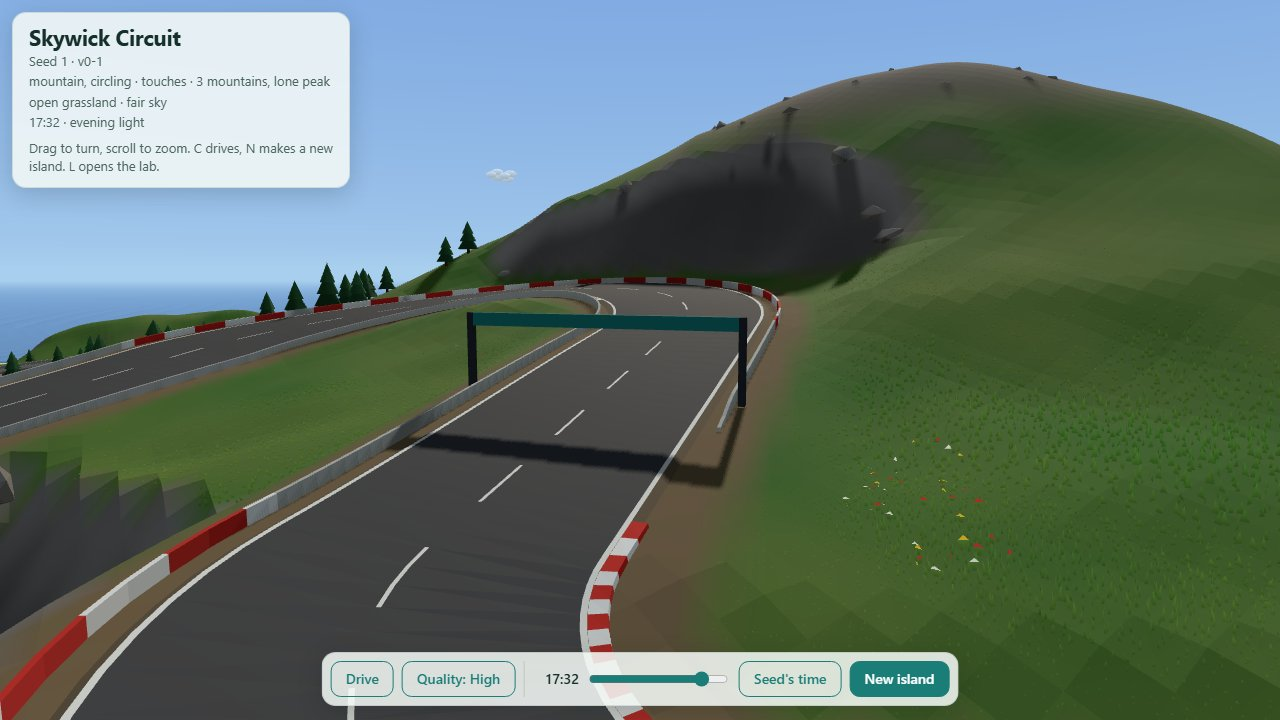
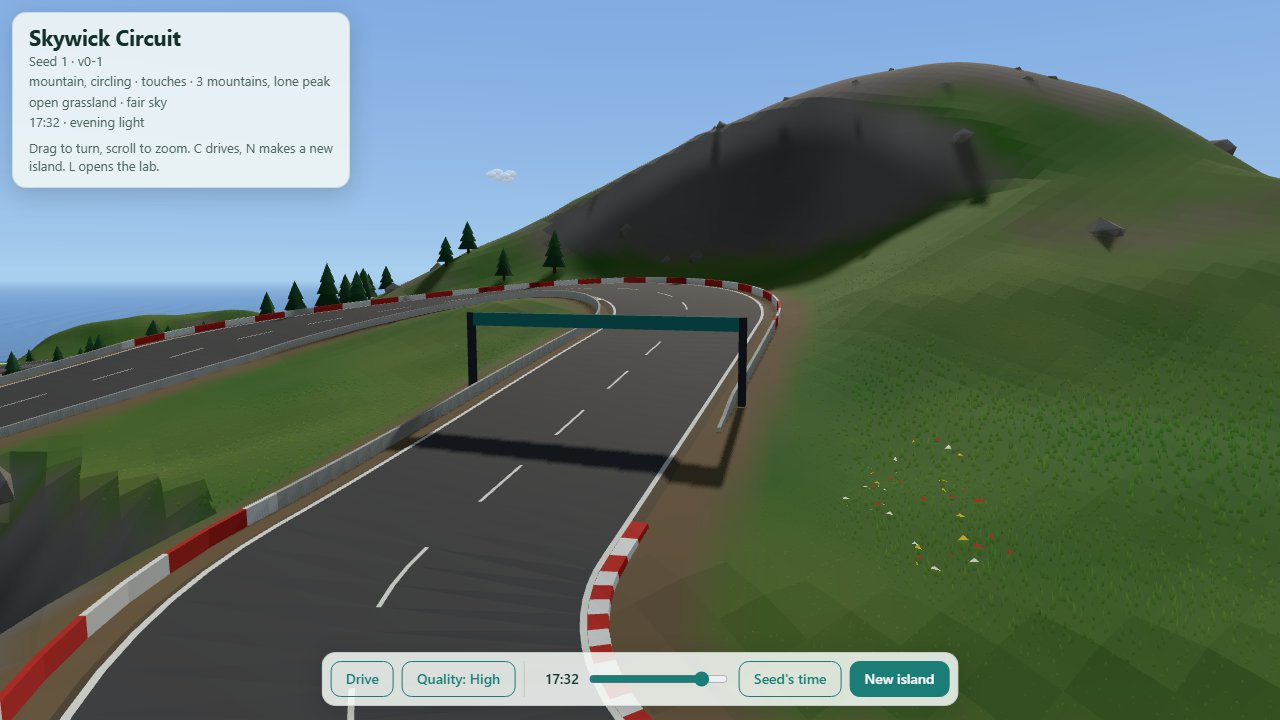
M6.3c: rock and snow with soft, uneven edges
The rock's and the snow's edges wander with a broad noise of their own
(world.cover.edge: 70 m a unit; the rock's slopes by up to 0.5, its
heights by up to 40 m, the snow line by up to 20 m), and rock blends in
from 50% to 100% steep (rockSlope, was 55 to 85%). The wander may always
draw grass up a slope but pushes rock only onto slopes within edge.reach
0.15 of where rock begins, so gentle ground stays grass. Tane chose the
second of three tries on pictures, and to leave the peak's ridge texture
as it is (no lumpiness showed; changing it would move mountain laps).
World only: no lap moves; the bot's races and pinned simulation
fingerprints are unchanged. The visual bar's mountain.jpg and
mountain-road.jpg taken again.

Over the 38 mountain seeds of 1 to 200: rock over half 17.24% of land
before, 15.99% after; half-rock blends 5.16% to 7.14%; snow unchanged;
no rock on gentle low ground.

Tests: 5 in cover.test.ts (the rock's slopes, its heights and the snow
line each wander from mostly one to mostly the other; no rock on gentle
low ground; the wander is broad); the snow test in mountains.test.ts
allows for the snow line's wander. 2,998 unit tests pass; type check
clean; 442 browser tests pass (136 skipped) in 39.1 minutes.

STATE.md: M6.3c done, M6.3d next.

diff --git a/src/gen/world/cover.test.ts b/src/gen/world/cover.test.ts
@@ -102,6 +102,56 @@ describe('buildCover', () => {
   });
 });
 
+describe('the edges of the rock and the snow (M6.3c)', () => {
+  const sample = coverSampler(3, config, 'peak');
+  /** What the sampler gives at points 15 m apart over a 600 m square, all at one height and slope. */
+  const over = (here: number, slope: number, pick: (c: ReturnType<typeof sample>) => number): number[] => {
+    const got: number[] = [];
+    for (let x = -300; x <= 300; x += 15) for (let z = -300; z <= 300; z += 15) got.push(pick(sample(x, z, here, slope)));
+    return got;
+  };
+  /** The share of values below a quarter and above three quarters of the scale. */
+  const ends = (values: number[]): [number, number] => [values.filter((v) => v < 64).length / values.length, values.filter((v) => v > 191).length / values.length];
+
+  it('wander across an even slope: in the middle of the rock band some places are mostly grass and some mostly rock', () => {
+    const [grassy, rocky] = ends(over(60, (config.world.cover.rockSlope[0] + config.world.cover.rockSlope[1]) / 2, (c) => c.rock));
+    expect(grassy).toBeGreaterThan(0.1);
+    expect(rocky).toBeGreaterThan(0.1);
+  });
+
+  it('never push rock onto gentle low ground', () => {
+    const { rockSlope, edge } = config.world.cover;
+    expect(Math.max(...over(60, rockSlope[0] - edge.reach - 0.01, (c) => c.rock))).toBe(0);
+  });
+
+  it('wander across high ground, so rock does not begin along a contour', () => {
+    const [grassy, rocky] = ends(over((config.world.cover.rockHeight[0] + config.world.cover.rockHeight[1]) / 2, 0.1, (c) => c.rock));
+    expect(grassy).toBeGreaterThan(0.1);
+    expect(rocky).toBeGreaterThan(0.1);
+  });
+
+  it('wander across the snow line', () => {
+    const [bare, snowy] = ends(over((config.world.cover.snowHeight[0] + config.world.cover.snowHeight[1]) / 2, 0.1, (c) => c.snow));
+    expect(bare).toBeGreaterThan(0.1);
+    expect(snowy).toBeGreaterThan(0.1);
+  });
+
+  it('wander broadly: points 3 m apart differ far less than points far apart', () => {
+    let near = 0;
+    let far = 0;
+    let count = 0;
+    for (let x = -300; x <= 300; x += 15) {
+      for (let z = -300; z <= 300; z += 60) {
+        const here = sample(x, z, 60, 0.75).rock;
+        near += Math.abs(here - sample(x + 3, z, 60, 0.75).rock);
+        far += Math.abs(here - sample(x + 150, z + 150, 60, 0.75).rock);
+        count++;
+      }
+    }
+    expect(near / count).toBeLessThan((far / count) / 4);
+  });
+});
+
 describe('coverSampler (M6.2b)', () => {
   it('gives at any point the cover buildCover gives a cell away from the road, from its height and slope', () => {
     // A hillside rising to the east, steep enough in places for rock and high enough for some snow.

diff --git a/src/gen/world/cover.ts b/src/gen/world/cover.ts
@@ -29,20 +29,29 @@ export function coverSampler(seed: number, cfg: GenConfig, landform: LandformKin
   const noise = createNoise(rng);
   const offsetX = rng.range(-500, 500);
   const offsetZ = rng.range(-500, 500);
+  // The broad wander of the rock's and the snow's edges (M6.3c), its own stream so the rest is unchanged.
+  const edgeRng = rng.fork('edge');
+  const edgeNoise = createNoise(edgeRng);
+  const edgeX = edgeRng.range(-500, 500);
+  const edgeZ = edgeRng.range(-500, 500);
+  const { edge } = rules;
 
   return (x, z, here, slope, grows = 1) => {
     const variation = clamp01(0.5 + 0.6 * fbm(noise, x / rules.variationScale + offsetX, z / rules.variationScale + offsetZ, 3));
     // The edge of the sand wanders a little with the variation, so it is not a contour line.
+    const wander = fbm(edgeNoise, x / edge.scale + edgeX, z / edge.scale + edgeZ, 3);
     const sand = 1 - smoothstep(rules.sandTop[0], rules.sandTop[1], here + (variation - 0.5) * 1.2);
     const rock =
       here <= 0
         ? 0
         : Math.max(
-            alpine ? smoothstep(rules.rockHeight[0], rules.rockHeight[1], here + variation * 6) : 0,
-            smoothstep(rules.rockSlope[0], rules.rockSlope[1], slope),
+            alpine ? smoothstep(rules.rockHeight[0], rules.rockHeight[1], here + variation * 6 + wander * edge.height) : 0,
+            // The wander may always draw grass up a slope, but pushes rock down only onto ground nearly steep enough
+            // for it, so gentle ground stays grass.
+            smoothstep(rules.rockSlope[0], rules.rockSlope[1], slope + wander * edge.slope * (wander > 0 ? smoothstep(rules.rockSlope[0] - edge.reach, rules.rockSlope[0], slope) : 1)),
           );
     // The snow line wanders a little with the variation, like the edge of the sand.
-    const snow = alpine ? smoothstep(rules.snowHeight[0], rules.snowHeight[1], here + (variation - 0.5) * 6) : 0;
+    const snow = alpine ? smoothstep(rules.snowHeight[0], rules.snowHeight[1], here + (variation - 0.5) * 6 + wander * edge.snow) : 0;
     const grass = here > 0 && grows > 0 ? (1 - sand) * (1 - rock) * (1 - snow) * grows : 0;
     return {
       grass: Math.round(grass * 255),

diff --git a/src/config.ts b/src/config.ts
@@ -884,6 +884,14 @@ export interface CoverConfig {
   roadsideFade: number;
   /** Size of the patches of lusher and drier ground: metres per unit of noise. */
   variationScale: number;
+  /**
+   * M6.3c: the edges of the rock and the snow wander up and down the hill with a broad noise of this size
+   * (metres per unit), so rock reaches down in tongues and grass climbs between them, not along a contour: the rock's
+   * slopes shift by up to `slope`, its heights by up to `height` metres and the snow line by up to `snow` metres.
+   * The wander may always draw grass up a slope, but pushes rock only onto slopes at most `reach` gentler than
+   * `rockSlope`'s start, so gentle ground stays grass.
+   */
+  edge: { scale: number; slope: number; height: number; snow: number; reach: number };
 }
 
 /**
@@ -2352,10 +2360,11 @@ export const config: GameConfig = {
     cover: {
       sandTop: [1.0, 2.6],
       rockHeight: [130, 160],
-      rockSlope: [0.55, 0.85],
+      rockSlope: [0.5, 1.0],
       snowHeight: [180, 200],
       roadsideFade: 3,
       variationScale: 55,
+      edge: { scale: 70, slope: 0.5, height: 40, snow: 20, reach: 0.15 },
     },
     sky: { hours: [7, 19.5] },
     decor: {

diff --git a/src/gen/world/mountains.test.ts b/src/gen/world/mountains.test.ts
@@ -292,7 +292,8 @@ describe('snow', () => {
       const [from, to] = built.cfg.world.cover.snowHeight;
       for (let c = 0; c < built.island.natural.height.length; c++) {
         const height = built.island.natural.height[c]!;
-        if (height < from - 10) expect(cover.snow[c], `seed ${built.seed}`).toBe(0);
+        // The snow line wanders by up to `cover.edge.snow` metres (M6.3c).
+        if (height < from - 10 - built.cfg.world.cover.edge.snow) expect(cover.snow[c], `seed ${built.seed}`).toBe(0);
         if (height > to + 10 && cover.snow[c]! > 200) snowy++;
       }
     }

diff --git a/docs/STATE.md b/docs/STATE.md
@@ -8,11 +8,11 @@ The step-by-step record of Milestones 1 and 2 (plans, measurements, check-ins an
 
 - **Current milestone:** **Milestone 6, Polish** ([issue #6](https://github.com/TechnologicTEC/Random-Racing/issues/6)), planned and approved by Tane on 2026-11-25 (below). Milestones 1 to 5 are merged and signed off (PR #7, #9, #10, #11, #12; Milestone 5 signed off by Tane 2026-11-25)
 - **Branch:** `milestone-6-polish`, made from `main` at 009260e. `main` is protected by a GitHub ruleset (no force pushes, no deletion, pull request required); one branch and pull request per milestone, merged after Tane signs off
-- **Last finished part:** M6.3b, cuttings lie back: a cutting's own longest blend of 45 m (Tane), held inside tight corners (2026-11-28)
+- **Last finished part:** M6.3c, rock and snow with soft, uneven edges (Tane chose the look; the peak left as it is) (2026-11-28)
 - **Check-in 1 with Tane (2026-11-28):** after M6.2, the bridges and the tunnels: "it looks good, no real changes needed"
 - **M6.3 picked and split (2026-11-28):** Tane picked the saw-tooth tops, the glare from above, the time of day, the round massif, the rock bands and the lumpy peak, the deep cuttings and the flower dabs; split into M6.3a to M6.3g, generator ones first (`docs/plan/M6-polish.md`)
 - **M6.3a dropped (Tane, 2026-11-28):** the lobed foot was tried and barely showed (below)
-- **Next:** **M6.3c**, mountain rock with soft, uneven edges and a less lumpy peak (generator): pictures before and after, shown to Tane before the commit
+- **Next:** **M6.3d**, the saw-tooth tops of sea cliffs and cut banks (drawing): pictures before and after, shown to Tane before the commit
 - **Hand-over, 2026-11-16.** Fable 5.2 built Milestones 1 and 2 and Milestone 3 up to 4c, then planned the rest: `docs/PLAN.md` (every part to release, in order, with its rules, starting values and "done when" tests) and `docs/VISUAL_BAR.md`. Opus 5.5 finished the plan's later sections the same day and builds from here
 
 ## Milestone 6: polish (2026-11-25)
@@ -44,7 +44,7 @@ Planned in plan mode and approved by Tane on 2026-11-25 (plan file: `C:\Users\ta
 | | **Check-in 1 with Tane**: drive over bridges and through tunnels | **Done** 2026-11-28: looks good, no changes |
 | M6.3a | The massif's foot uneven, not a round cone (generator; tracks move on mountain seeds) | **Dropped** (Tane, below) |
 | M6.3b | Wider blends beside deep cuttings on steep ground (generator, world only) | **Done** (below): 45 m (Tane) |
-| M6.3c | Mountain rock with soft, uneven edges; a less lumpy peak (generator) | To do |
+| M6.3c | Mountain rock with soft, uneven edges; a less lumpy peak (generator) | **Done** (below): the peak left as it is (Tane) |
 | M6.3d | The saw-tooth tops of sea cliffs and cut banks (drawing; a generator fallback if Tane asks) | To do |
 | M6.3e | The sun's glare on the sea from above (drawing) | To do |
 | M6.3f | The time of day: clouds at a low sun, dawn and dusk light, the evening sky, the light's names (drawing) | To do |
@@ -62,6 +62,10 @@ Planned in plan mode and approved by Tane on 2026-11-25 (plan file: `C:\Users\ta
 **Tane after M6.1b (2026-11-25):** "This is looking good. But I wonder if the bridge could look a bit different to the other parts of the track. As although it has the supports and elevated track, on top it looks the same and a player wouldn't really notice the difference. Instead could it maybe look like a wooden bridge or a different colour to the track. I also think we should look into using bridges to cross bits of water. For example we can have the track spanning across a ravine or a river and the bridge can connect the track on either side." Recorded with an outline and the questions in `docs/plan/M6-polish.md` ("Tane after M6.1b"); planned properly in plan mode in a fresh session. M6.1b stays as it is meanwhile: the bridges' shape, ground, railings, pillars and colliders are the base both changes build on.
 
 **M6.3, Tane's picks (2026-11-28).** Offered the 13 look items of `docs/PLAN.md`'s table "Where each known issue is dealt with" and this file's known issues, with what each fix would involve, Tane picked 1, 2, 3, 4, 6, 7 and 11: the saw-tooth tops of sea cliffs and cut banks, the sun's glare from above, the time of day (clouds at dawn and dusk, those hours dark, 18:30's blue "evening light", 10:00's "midday light"), the round cone under a massif, mountain rock in hard-edged bands and the lumpy peak, the steep cuttings beside mountain roads, and the large flower dabs near the chase camera. Left as they are: the coast's curved rock bands, the 64-point mountain check (it would remove the gorges Tane kept), the small generator and grass items (sandy flat seeds, the mown strip's width, nothing cleared round trees, the wind's direction), more trees from above, the title card's place, and new places for three visual bar pictures. The parts are M6.3a to M6.3g in `docs/plan/M6-polish.md`, generator ones first; each shows Tane pictures before and after before its commit.
+
+**M6.3c, done 2026-11-28.** **Rock and snow with soft, uneven edges** (`src/gen/world/cover.ts`, world only: no lap moves). Rock was where the ground is high (`world.cover.rockHeight` 130 to 160 m, its edge wandering 6 m with the variation) or steep (`rockSlope` 55 to 85%), and snow above `snowHeight` 180 to 200 m, so on the pictures a hill turned from grass to rock along a crisp line and seed 3's snow cap was a smooth contour. Now a broad noise of its own (`fbm` over 3 octaves, 70 m a unit, its own fork `edge` of the cover's stream so the variation is unchanged) moves the edges: the rock's slopes by up to `world.cover.edge.slope` 0.5, its heights by up to `height` 40 m, the snow line by up to `snow` 20 m; and the rock blends in from 50% to 100% steep (`rockSlope`, was 55 to 85%). **Gentle ground stays grass:** the wander may always draw grass up a slope, but it pushes rock only onto slopes no more than `edge.reach` 0.15 gentler than where rock begins (found by the hill-country test, which saw rock of 63 of 255 on ground under 30% steep, seed 5's test island, and by the snow test, whose 10 m margin under the snow line now adds `edge.snow`). **Tane chose** the second of three tries on pictures (a first, gentler try with 90 m, 0.3, 30 m and 15 m and the old `rockSlope` changed little but seed 3's snow line; a stronger one was offered), **and to leave the peak as it is**: no lumpiness showed on any peak in the pictures, and lowering `rockDepth` would shape the massif's top in the relief and move mountain laps. **What shows:** on seed 3 the snow line has tongues and grass climbs the mountain's foot in patches; seed 12's hill is grass and rock in patches rather than one grey slab; seed 1's lone peak changes least, since its sides are much steeper than its foot, so rock still begins along a fairly crisp line there; from above the islands are a little greener, and moderate slopes (some sea cliffs and cut banks) show grass among the rock. **Measured over the 38 mountain seeds of 1 to 200** (land cells): rock over half 17.24% before, 15.99% after; between a quarter and three quarters rock (a blend) 5.16% before, 7.14% after; snow over half 0.73% and 0.74%; rock over a quarter on low ground under 30% steep none before or after. The car's grip off the road reads the cover (`sim/car/surface.ts`), so a car off the road may meet other ground where the edges moved; the bot's races and every simulation fingerprint the tests pin are unchanged. The visual bar's `mountain.jpg` and `mountain-road.jpg` were taken again. **Pictures** (the session's scratchpad, `pics/m63c/`: `final.png`, seeds 1, 3 and 12 at `look=summit` and seed 3 circling, before and after; `try2-pairs.png` and `try2-above.png` as shown to Tane; `try1-pairs.png` the gentler try). Tests: 5 in `cover.test.ts` (in the middle of the rock's slopes, of its heights and of the snow line, over a 600 m square, some places under a quarter and some over three quarters; never rock on gentle low ground; points 3 m apart differ on average under a quarter as much as points 150 m apart). Seen failing first: the three middles (none under a quarter) without the code; the gentle ground's was written after the hill-country test found it; the broad wander's passes either way (its first bound, 40 of 255 at most between points 3 m apart, was too tight for the look Tane chose: up to 78). 2,998 unit tests pass; type check clean; 442 browser tests pass (136 skipped, as usual) in 39.1 minutes, with no failure.
+
+**Claude's calls in M6.3c, for Tane to judge:** one broad noise moves all three edges together (rock reaches down where the snow does); the wander pushes rock only onto ground nearly steep enough for it, so hill country and gentle meadows stay green.
 
 **M6.3b, done 2026-11-28.** **Cuttings lie back** (`src/gen/world/fit.ts`; world only: the fit runs after the track is chosen, so no lap, ghost or bot race moves). Beyond the verge the ground blends back to the natural ground over `abs(difference) / road.blendSlope` (0.4), held to `blendMin` 10 m and, until now, `blendMax` 25 m both ways, so a cut of 13 m into a 60% hillside rose at up to 160 to 200% beside the road. **A cutting now has its own longest blend, `road.blendCutMax` 45 m** (Tane chose 45 on pictures of 25 and 45; the brief's line on the fit now says so); an embankment keeps 25 m. **Inside a tight corner** the wider blend stops at `CORNER_SHARE` 0.8 of the corner's radius from the centre line (never under the old 25 m), as a tunnel's lid does: towards a corner's middle the nearest point of the road jumps from one part of the corner to another at another height, and the first try, unheld, left a 6 m step 43 m inside a 45 m corner on fresh seed 6322 (its report's steepest bank 2.24, over the fresh-seeds test's 2.2). The corner is read from `smoothBends`, the sharpest bend towards each side within 45 m either way averaged over the same stretch, since an arc meets its straights with a jump in curvature (held by the raw curvature, seed 6322's step grew to 4.11). **`fitReach`** (the road's half-width, a verge and the longer blend) is shared by the fit, the island's inland ground (which beyond it, out at sea, is never worked out: left at 25 m it made a false 'steepest bank' at the coast on seeds 1 and 3) and the report; the tunnels' lids reach as far. **Measured over the 38 mountain seeds of 1 to 200** (every land cell cut 1 to 30 m below its natural height, its slope over its neighbours): steeper than 150% 1,379 of 151,180 cells (0.91%) before, 772 of 163,130 (0.47%) after; steeper than 100% 3.46% before, 2.45% after; the report's steepest bank at most 4.08 before, 3.89 after (seed 47; median 1.26 and 1.25); a cutting's deepest point is 2 to 4 m deeper, since the wider blend cuts further into the hill. On seeds 1, 3, 11, 13 and 14, 1.38% before and 0.39% after. **The trenches of seeds 3 and 53 are not cuttings** (the known issue said they were, from C6): inside seed 3's hairpin fold the hills stand at 84 m and the island at 31 m, about 50 m under both legs, because the fold opens to the sea and the coast carves the high ground down ("the coast cuts high ground into curved rock bands", left at M6.3); its ravine crossing (M6.1d) passes 188 m away. Seed 53's is a natural valley beside the road. The fit leaves both as they are; on the first pictures seed 3's was wrongly put down to its ravine. **Pictures** (the session's scratchpad, `pics/m63b/`: `final-cuts.png` seeds 1, 13 and 11 at `look=cut`, `final-banks.png` seeds 1 and 3 at `look=bank` and seed 3 circling, before and after; the camera finds the steepest bank or deepest cut, so some after pictures show another stretch of road); seed 12's cutting changes little, its jagged hillside the grid's saw-tooth (M6.3d). Tests: 4 in `fit.test.ts` (a 25 m cut reaching past 25 m to 45 m and no steeper than 100%, a 25 m embankment still 25 m; held to 0.8 of a 60 m circle's radius inside it, its whole width outside; `smoothBends` on a stadium, reaching the arc's bend with no jump; `fitReach`) and the new `cutBanks.test.ts` (seeds 1, 3, 11, 13 and 14: under 0.8% of cut-bank cells steeper than 150%). Seen failing first: the deep cutting's, `fitReach`'s and the seeds test (1.38%) without the code, and the corner's on the unheld blend (37.4 m where 40 was asked); `smoothBends`' was written after it. No pinned fingerprint moved. 2,993 unit tests pass; type check clean; 442 browser tests pass (136 skipped, as usual) in 38.9 minutes, with no failure.
 
@@ -331,6 +335,7 @@ The 170 decisions of Milestones 1 and 2 (2026-11-11 to 2026-11-15) are in `docs/
 
 | Date | Decision | Why |
 | --- | --- | --- |
+| 2026-11-28 | **Rock and snow edges wander** (`world.cover.edge`, Tane's pick of three tries on pictures); **the peak's ridge texture left as it is** (Tane) | The rock no longer begins along a contour; no lumpiness showed on the peaks, and changing it would move mountain laps |
 | 2026-11-28 | **A cutting blends back over up to 45 m** (`road.blendCutMax`; Tane, on pictures), past the brief's 10 to 25 m; embankments keep 25 m; inside a corner held to 0.8 of its radius | Banks cut into steep mountainsides lie back (cells steeper than 150% halved over the mountain seeds of 1 to 200); the brief's fit line now says so |
 | 2026-11-28 | **M6.3a dropped (Tane):** the massif's cone stays round | A lobed foot barely showed: the coast's ring of cliffs is what reads as round |
 | 2026-11-27 | **The tunnels' look (Tane, on pictures):** yes to concrete portals, pale walls, a dark ceiling and the hill's shape given back over the road; **grass and trees on a tunnel's lid**, which read as a bare patch from above (M6.2b-3) | Tane chose grass and trees over grass only or a bare lid |
@@ -465,7 +470,7 @@ The design notes for Milestones 4, 5 and 6, and their steps, are in `docs/PLAN.m
 - **A ridged range can stand over the road, which then runs through it in a gorge** (seed 39898; 42 from the 20 m road until M4.1; 28496 before; about 1 seed in 40). Mountain placement checks a foot at 32 points round its outline. Tane chose to keep the gorges (step 17). The same coarse check lets a range's foot come 50 m from the road, or a mountain's land only just meet the road's, on test islands of seed 5 (6h-3, listed in `mountains.test.ts`). For M6.3: checking feet at 64 points removes the gorges too.
 - **The circling camera frames only part of the lap on the biggest islands** (seed 10 from above).
 - Enclosed water is possible where a fold in the track is closed off by land at its mouth. None seen yet; it would be a lagoon.
-- In 3D the sea cliffs read well as rock faces. The peak is craggy and a bit lumpy from the ridge texture on its sides; worth a look once lighting and shadows are in.
+- In 3D the sea cliffs read well as rock faces. The peak was noted as craggy and a bit lumpy from the ridge texture on its sides; at M6.3c no lumpiness showed on any peak's pictures, and Tane left it (2026-11-28). On a lone peak whose sides are much steeper than its foot (seed 1), rock still begins along a fairly crisp line at the foot.
 - **The sun's glare on the sea, seen from the circling camera, is a wide pale patch with wave stripes in it** (seed 7 at 10:00). Softer than it was; `render.water.glint*` are the settings.
 - **The water shader does more work per pixel than the demo's** (eight wave trains, each with a noise lookup). Measured in step 15: the sea surface costs about 0.5 ms a frame at 1080p on the Arc graphics; Low keeps the four longest of the eight trains.
 - **From far above, open and wooded islands still look fairly bare**: a tree is 6 to 10 m tall on an island 1 to 2 km across, so woods read as patches of dark dots. `world.decor.trees.level` sets how much is wooded and `spacing` how close the trees stand. For Tane to judge.
@@ -608,3 +613,4 @@ Entries up to the end of Milestone 2 are in `docs/archive/STATE-milestone-1-2.md
 - **2026-11-28 (Milestone 6, Opus 5.5):** M6.3 started: Tane picked 7 of the 13 look items offered (the saw-tooth tops, the glare from above, the time of day, the round massif, the rock bands and the lumpy peak, the deep cuttings, the flower dabs); split into M6.3a to M6.3g, generator ones first, in `docs/PLAN.md`, `docs/plan/M6-polish.md` and here. Next: M6.3a.
 - **2026-11-28 (Milestone 6, Opus 5.5):** M6.3a tried and dropped (Tane): a lobed foot for the massif's cone barely showed, since the coast's cliffs are what read as round, and it moved every mountain seed's lap. Next: M6.3b.
 - **2026-11-28 (Milestone 6, Opus 5.5):** M6.3b done: a cutting blends back over up to 45 m (Tane), held inside tight corners by a smoothed curvature; cut-bank cells steeper than 150% halved over the mountain seeds of 1 to 200; seeds 3 and 53's trenches found to be the coast's and a natural valley. Next: M6.3c.
+- **2026-11-28 (Milestone 6, Opus 5.5):** M6.3c done: the rock's and the snow's edges wander with a broad noise, the rock blending in from 50% to 100% steep, gentle ground kept grass (Tane chose the look, and to leave the peak). Next: M6.3d.

diff --git a/docs/plan/M6-polish.md b/docs/plan/M6-polish.md
@@ -41,7 +41,7 @@ Each part ends with passing tests and one commit (`docs/PLAN.md`, "The routine f
 | | **M6.3, Tane's picks (2026-11-28).** Offered the 13 look items of `docs/PLAN.md`'s table "Where each known issue is dealt with" and `docs/STATE.md`, Tane picked: the saw-tooth tops (1), the glare from above (2), the time of day (3), the round massif (4), the rock bands and the lumpy peak (6), the deep cuttings (7) and the flower dabs (11). Left: the coast's curved rock bands (5), the 64-point mountain check, which would remove the gorges (8), the small generator and grass items (9), more trees from above (10), the title card's place (12), and new places for three visual bar pictures (13). Generator parts first, since they move every mountain world and must land before `v1`. **Each part: pictures before and after, shown to Tane before its commit** |
 | **M6.3a** | **The massif's foot uneven** (generator). A mountain seed's massif stands on a cone that is round, up to 2.3 km across (`createRelief`, `world.relief.massif`), so seeds 3, 13 and 14 read as one round dome. Its foot gets a wavy outline from the seed (as `wavyOutline` gives the other mountains, its lobes in `world.relief.massif`), the cone's height at the shoulder kept, and no steeper than `massif.slope` (15%) anywhere, the sideways tilt included (a test over the cone). The cone is in the relief every candidate is laid over, so tracks move on mountain seeds: measured over seeds 1 to 200 (candidates rejected, winners changed, lap height ranges by route still inside their tests); pinned fingerprints and per-seed tests updated where winners change, as at M4.1. Pictures before and after: seeds 3, 13 and 14 circling and from the contact sheet, seed 1's `look=summit` and `look=climb`. **Dropped 2026-11-28 (Tane):** a lobed foot (the peaks' `wavyOutline`, never steeper than 15%) was tried on seeds 1, 3, 13 and 14 and barely showed: the cone's foot lies mostly under the sea, and what reads as round is the coast cutting the high ground into a ring of cliffs (the coast's curved rock bands, left), while every mountain seed's lap and other mountains moved |
 | **M6.3b** | **Wider blends beside deep cuttings** (generator, world only: the fit runs after the track is chosen). The blend from the road's edge into the hillside is `abs(difference) / road.blendSlope` (0.4), held to `blendMin` 10 m and `blendMax` 25 m (`gen/world/fit.ts`), so a cut of 13 m on a steep hillside is a trench. On steep ground the blend may reach further (its own config value), so the bank beside the road lies back. Measured over the mountain seeds of 1 to 200: the steepest bank beside the road (210% today) and the deepest cut at a road edge (13 m today); the barrier, wall and tunnel tests still pass. Pictures before and after: seeds 3 and 53 (the trenches), 1 `look=cut` and `look=bank`. **Done 2026-11-28:** `road.blendCutMax` 45 m (Tane, on pictures; past the brief's 10 to 25 m, the embankments' `blendMax` 25 m kept), held inside a corner to 0.8 of its radius from the centre line, the corner taken from a curvature smoothed along the lap (`smoothBends`), since towards a corner's middle the nearest point of the road jumps to another part of it at another height; `fitReach` shared by the fit, the island and the report. Over the 38 mountain seeds of 1 to 200, cut-bank cells steeper than 150% fell from 0.91% to 0.47% and steeper than 100% from 3.46% to 2.45%; the report's steepest bank at most 3.89 (was 4.08). Seeds 3 and 53's trenches turned out not to be cuttings: the coast carving high ground inside a fold (seed 3) and a natural valley (seed 53), both left (`docs/STATE.md`) |
-| **M6.3c** | **Mountain rock with soft, uneven edges; a less lumpy peak** (generator). Rock is where the ground is high (`world.cover.rockHeight` 130 to 160 m, its edge wandering 6 m with the variation) or steep (`rockSlope` 55 to 85%), so it lies in hard-edged bands (`mountain.jpg`). The edge is broken up by a broader noise, so rock reaches down gullies and grass up spurs, and blends over a wider band (`gen/world/cover.ts`); the ridge texture on a peak's sides (`rockDepth`) is lowered if the pictures ask for it (it shapes the massif's top, in the relief, so it would move tracks as M6.3a does). Pictures before and after: seed 1 `look=summit`, seeds 3, 12 and 13 circling |
+| **M6.3c** | **Mountain rock with soft, uneven edges; a less lumpy peak** (generator). Rock is where the ground is high (`world.cover.rockHeight` 130 to 160 m, its edge wandering 6 m with the variation) or steep (`rockSlope` 55 to 85%), so it lies in hard-edged bands (`mountain.jpg`). The edge is broken up by a broader noise, so rock reaches down gullies and grass up spurs, and blends over a wider band (`gen/world/cover.ts`); the ridge texture on a peak's sides (`rockDepth`) is lowered if the pictures ask for it (it shapes the massif's top, in the relief, so it would move tracks as M6.3a does). Pictures before and after: seed 1 `look=summit`, seeds 3, 12 and 13 circling. **Done 2026-11-28:** the rock's and the snow's edges wander with a broad noise (`world.cover.edge`: 70 m, the rock's slopes by up to 0.5, its heights by up to 40 m, the snow line by up to 20 m), the rock blending in from 50% to 100% steep (`rockSlope`, was 55 to 85%); the wander pushes rock only onto slopes within `edge.reach` 0.15 of where rock begins, so gentle ground stays grass. Tane chose the second, stronger try of three on pictures, and to leave the peak as it is (no lumpiness showed on any peak's pictures, and `rockDepth` would move mountain laps) (`docs/STATE.md`) |
 | **M6.3d** | **The saw-tooth tops of sea cliffs and cut banks** (drawing first). Every 3 m square of the ground is split into two triangles along the same diagonal (`render/terrainChunks.ts`), so a sharp edge crossing the grid at a slant is drawn in steps. On squares steeper than the car can stand on (its own config value, well over the 40% wall rule), the square is split along whichever diagonal follows the edge; elsewhere as now, so the ground drawn and the ground the car meets (Rapier's heightfield, split the old way) agree wherever a car can be, and the grass (none on cliff rock) is unaffected. If the pictures still show teeth, smoothing the cliff's top edge in the heights is the generator fallback, Tane's call. Pictures before and after: seed 1 `look=bank`, seed 7 `look=water` (`shore.jpg`), seed 2024 at 18:30 (`road-corner-woods.jpg`), seeds 3 and 53's cuttings |
 | **M6.3e** | **The sun's glare on the sea from above** (drawing). Seen from the circling camera the glare is a wide pale patch with wave stripes in it (seed 7 at 10:00, `island-from-above.jpg`). The glints (`render.water.glint*`, the water shader) are tightened and their stripes faded with the camera's height, so the glare from the road is unchanged. Pictures before and after: seeds 7 and 2024 circling at 10:00 and 13:00; seed 7 `look=water` and `look=sun` unchanged |
 | **M6.3f** | **The time of day** (drawing, all one look at `render/daylight.ts` and `lightName`). The clouds are grey-brown against the pink sky at 07:00 and 19:30 (`render.clouds.glow`): lit by the low sun's warm colour instead; those hours a little lighter; 18:30 is called "evening light" with a plain blue sky, so the sky warms sooner before sunset or the names' hours move, Tane's call on pictures; 10:00 is called "midday light" (morning ends at 10:00), so the names' hours move. Pictures before and after: the time strip of seed 7 (07:00, 08:00, 10:00, 13:00, 17:00, 18:30, 19:30), `sunrise.jpg` and `road-corner-woods.jpg` taken again |

diff --git a/docs/VISUAL_BAR.md b/docs/VISUAL_BAR.md
@@ -29,7 +29,7 @@ What the game looks like, in terms that can be checked, with pictures to lay new
 | **Crossings** (M6.1d) | About half the islands have one place where the lap crosses water or a ravine on a bridge, square to the road. **An inlet:** the sea runs in under the bridge to a round cove, turquoise shallows and foam along its banks. **A river:** from the sea under the bridge, winding inland and narrowing. Their banks are earth and sand at 40%. **A ravine:** a rock cut 10 to 30 m deep, its walls rough with ledges and outcrops and its floor uneven, winding away from both sides of the bridge like a snake and narrowing to points at its ends (Tane, M6.1d-2: no rectangle cut out of the ground); trees and boulders on its floor and rim. **A hill river:** such a gorge high in the hills holding a still lake at one level, closed at both ends, the sea's turquoise and foam but calm, the piers standing in it; no grass, trees or rocks in the water | `crossing-inlet.jpg`, `crossing-river.jpg`, `crossing-ravine.jpg`, `crossing-hill-river.jpg` |
 | **Grass** | Green that varies lush to dry in broad patches, fine blades near the camera, a short mown strip by the road, dabs of white, yellow and red flowers in places | `road-straight-meadow.jpg`, `start-gate.jpg` |
 | **Trees and rocks** | Broadleaf trees as dark-green faceted lumps on short brown trunks, pines as stacked cones, palms by the beach; in groves and woods, not evenly scattered. Grey faceted boulders on rocky ground. Every tree casts a shadow | `road-corner-woods.jpg`, `road-morning-shadows.jpg`, `hairpin-and-beach.jpg`, `mountain.jpg` (rocks) |
-| **Mountains** | Big rounded or ridged forms, grass low down, grey rock above, with the road climbing across them | `mountain.jpg`, `mountain-road.jpg` |
+| **Mountains** | Big rounded or ridged forms, grass low down, grey rock above, with the road climbing across them. Where grass gives way to rock, and rock to snow, the edge wanders: rock reaches down in tongues and grass climbs between them (M6.3c) | `mountain.jpg`, `mountain-road.jpg` |
 | **Sea and shore** | Deep blue with lines of waves, turquoise shallows, pale sand, a thin white line of foam where they meet | `hairpin-and-beach.jpg`, `shore.jpg`, `island-from-above.jpg` |
 | **Sky and clouds** | Blue, paler at the horizon; white faceted clouds, few or many by the seed | `road-straight-meadow.jpg`, `road-corner-kerb.jpg` |
 | **Time of day** | Low sun: long shadows across the road, warmer light. 07:00 and 19:30: a pink sky with the sun's disc low over the sea, and darker ground | `road-morning-shadows.jpg` (07:27), `sunrise.jpg` (07:00) |
@@ -65,6 +65,8 @@ The page opens driving since step 5e; `cam=fly` keeps these addresses on the fly
 
 **All 13 were taken again on 2026-11-17 (6h-3)**, when the road became 20 m wide and every island changed. Since then seed 8's "straight meadow" begins a corner, and seed 42's start is level, by the sea, with its gate's posts out of the chase camera's view. To take them again: `node scripts/visual-bar-pictures.mjs` with `npm run dev` running (or name some: `node scripts/visual-bar-pictures.mjs shore.jpg,mountain.jpg`). **All 17 were taken again on 2026-11-26 (M6.1e)**, after the bridges (M6.1a to c) and the crossings (M6.1d) moved seeds 7, 1, 8 and 42, and the four crossing pictures added. Seed 7's lap is M6.1a's: `road-morning-shadows.jpg` is now a walled corner with a cutting in the morning light, with no long tree shadows across the road; `road-straight-meadow.jpg` (seed 8) is a road by the sea. Both still show what their rows use them for; choosing new places for them is Tane's call. **`drive-slide.jpg` and `drive-boost.jpg` were kept as accepted on 2026-11-23**: on seed 7's new lap the browser suite's slide (`world-00007-drive-slide.png`) now carries the car off the road into the trees, so it is no reference; a new place for them is Tane's call.
 
+`mountain.jpg` and `mountain-road.jpg` were taken again on 2026-11-28 (M6.3c), when the rock's and the snow's edges began to wander; the other pictures' rock on cliffs and banks may differ a little from today's.
+
 ## The car, sparks and flame
 
 The car was drawn in step 5c, to the proposal below, and Tane approved it at check-in 1 (2026-11-17) "for now": a proper design, and perhaps other car styles, may come later. Its pictures are `drive-start.jpg` and `car-close.jpg`. **The car casts no shadow** (Tane's choice at check-in 1: it was distracting to drive behind); it still takes the shadows of trees, walls and the gate. The drift's effects were first built in step 6d, and redrawn in 6h-5 as sprites with a bloom (Tane's choice after the second drive; sizes and counts in `render.car`, the bloom in `render.bloom`). Their pictures come from `npm run e2e` as `world-<seed>-drive-slide.png` and `-drive-boost.png`; **`drive-slide.jpg` and `drive-boost.jpg` (seed 7, tier 3) are proposed as references, for Tane to accept at check-in 2.**
@@ -98,7 +100,7 @@ The car was drawn in step 5c, to the proposal below, and Tane approved it at che
 - The top edge of a sea cliff or a bank is a saw-tooth (`shore.jpg`; the bank inside the corner in `road-corner-woods.jpg`).
 - From above, the sun's glare on the sea is a wide pale patch with wave stripes (`island-from-above.jpg`, right).
 - At 07:00 the clouds are grey-brown against the pink sky (`sunrise.jpg`).
-- The rock on a mountain can lie in a hard-edged band (`mountain.jpg`).
+- On a lone peak much steeper than its foot, rock still begins along a fairly crisp line at the foot (`mountain.jpg`; softer since M6.3c).
 - `time=18:30` is named "evening light" but its sky is still plain blue (`road-corner-woods.jpg`).
 
 ## How to check a visual change

diff --git a/docs/PLAN.md b/docs/PLAN.md
@@ -125,7 +125,7 @@ Written 2026-11-16 by the model that built Milestones 1 and 2 and Milestone 3 up
 - **M6.3** The look issues Tane picked (2026-11-28: numbers 1, 2, 3, 4, 6, 7 and 11 of the list offered; generator ones first):
   - [x] **M6.3a** The massif's foot uneven, not a round cone (generator): **dropped** (Tane, 2026-11-28: tried, it barely showed)
   - [x] **M6.3b** Wider blends beside deep cuttings on steep ground (generator) (2026-11-28; 45 m, Tane)
-  - [ ] **M6.3c** Mountain rock with soft, uneven edges; a less lumpy peak (generator)
+  - [x] **M6.3c** Mountain rock with soft, uneven edges; a less lumpy peak (generator) (2026-11-28; the peak left as it is, Tane)
   - [ ] **M6.3d** The saw-tooth tops of sea cliffs and cut banks (drawing; a generator fallback if Tane asks)
   - [ ] **M6.3e** The sun's glare on the sea from above (drawing)
   - [ ] **M6.3f** The time of day: clouds at a low sun, dawn and dusk light, the evening sky, the light's names (drawing)
@@ -230,7 +230,7 @@ Every item under "Known issues and risks" in `docs/STATE.md`, by the step that d
 | The sun's glare from above is a wide pale patch with wave stripes | **M6.3e** |
 | Clouds dark grey-brown at 07:00 and 19:30; those times quite dark; 18:30 called "evening light" with a blue sky; 10:00 called "midday light" | **M6.3f** (all one look at `render/daylight.ts` and `lightName`) |
 | The round cone under a massif | Left (Tane, M6.3a, 2026-11-28: a lobed foot barely showed; the round look is the coast's cliffs) |
-| Mountain rock in hard-edged bands; the peak a bit lumpy | **M6.3c** |
+| Mountain rock in hard-edged bands; the peak a bit lumpy | **M6.3c** (done: the edges wander; the peak left, Tane) |
 | The coast cuts high ground into curved rock bands | Left (Tane, M6.3, 2026-11-28: the biggest and riskiest of the list) |
 | Steep rock cuttings beside mountain roads | **M6.2** (tunnels take the deepest), then **M6.3b** (done: they lie back; the coast's cut into high ground, left, makes the trenches) |
 | Flat seeds show large sandy patches; the mown strip is the same width everywhere; nothing cleared round trees in long grass; the wind blows the same way on every island | Left (Tane, M6.3, 2026-11-28) |
